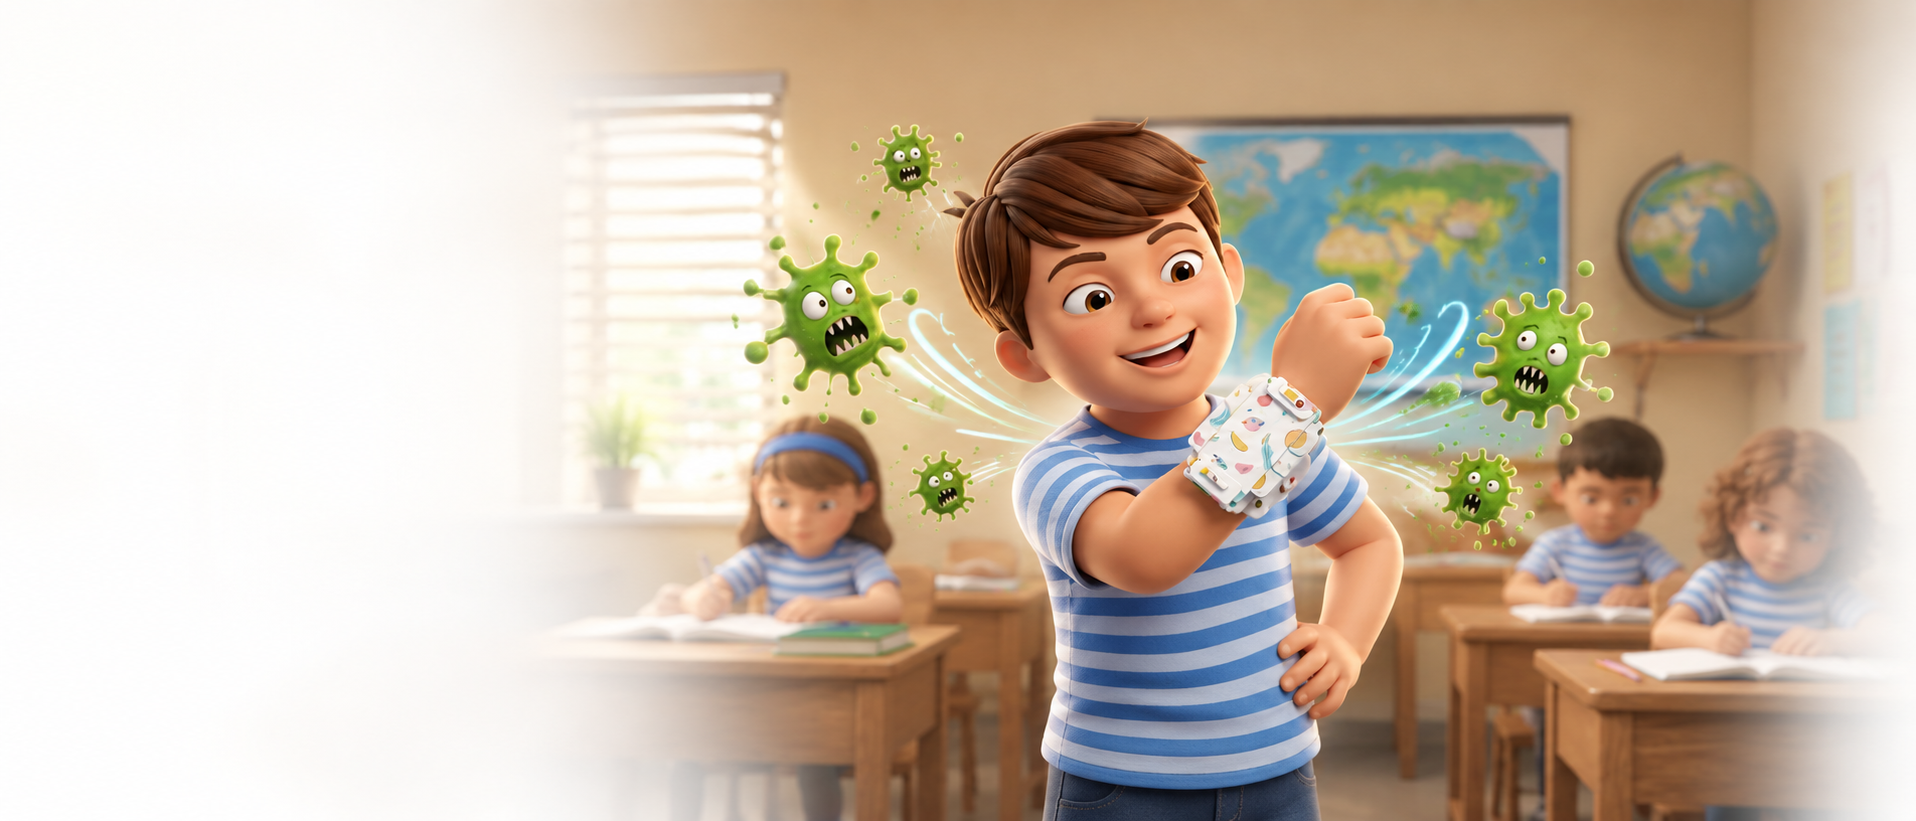
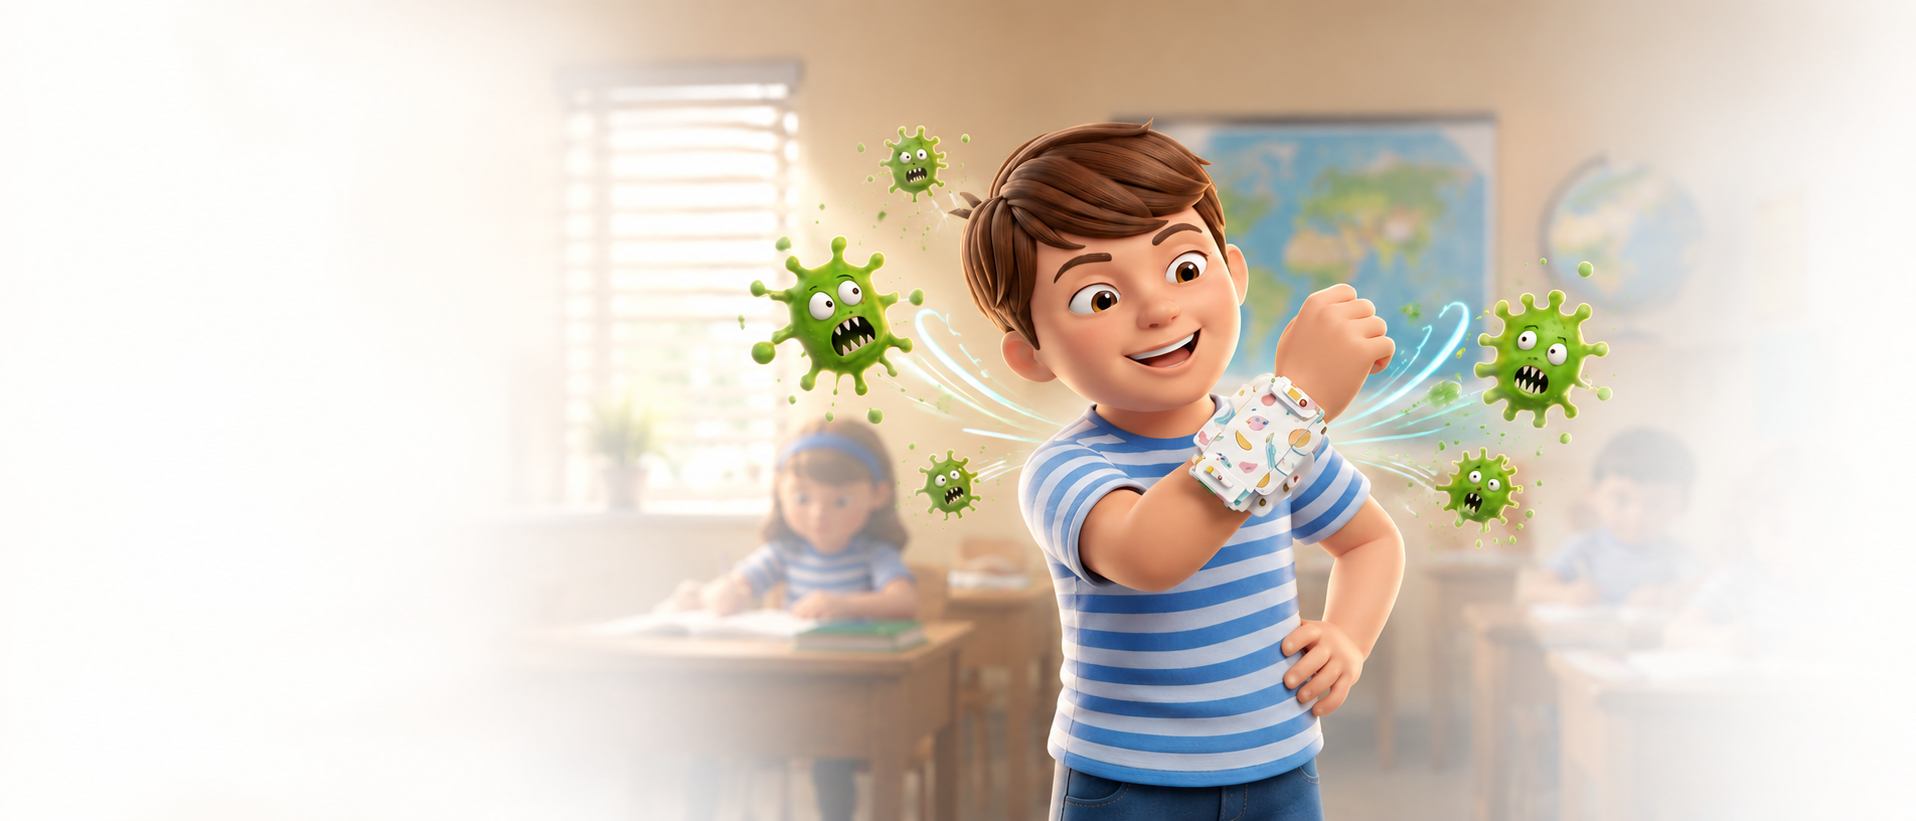
Use revised hero artwork with its natural side fade

diff --git a/components/sections/HeroSplit.module.css b/components/sections/HeroSplit.module.css
@@ -12,12 +12,9 @@
   width: min(100%, 1440px);
   aspect-ratio: 1916 / 821;
   z-index: -3;
-  --rounded-fade: radial-gradient(ellipse 50% 105% at 35% 46%, #000 0%, #000 60%, rgba(0,0,0,.85) 73%, rgba(0,0,0,.3) 89%, transparent 100%);
   --bottom-fade: linear-gradient(to bottom, #000 0%, #000 82%, transparent 100%);
-  -webkit-mask-image: var(--rounded-fade), var(--bottom-fade);
-  -webkit-mask-composite: source-in;
-  mask-image: var(--rounded-fade), var(--bottom-fade);
-  mask-composite: intersect;
+  -webkit-mask-image: var(--bottom-fade);
+  mask-image: var(--bottom-fade);
 }
 .sceneImage { object-fit: fill; }
 .inner { max-width: 1200px; margin: auto; padding: 48px 32px 100px; position: relative; z-index: 2; }

diff --git a/components/sections/HeroSplit.tsx b/components/sections/HeroSplit.tsx
@@ -2,6 +2,7 @@
 
 import React, { useState } from 'react';
 import Image from 'next/image';
+import heroScene from '@/public/assets/sections/Hero_option_01-wider.png';
 import { Check } from 'lucide-react';
 import { Button } from '@/components/ui/Button';
 import { useCart } from '@/lib/cart';
@@ -41,7 +42,7 @@ export function HeroSplit() {
     >
       <div className={styles.scene}>
         <Image
-          src="/assets/sections/Hero_option_01-wider.png"
+          src={heroScene}
           alt="Child wearing Wipeband on his wrist in a classroom"
           fill
           priority

diff --git a/docs/project/CURRENT_STATE.md b/docs/project/CURRENT_STATE.md
@@ -193,3 +193,13 @@ and has no commits absent from local main. Push includes approved hero, teal
 corrections and shared tooling/history. Hostinger deploys automatically; actual
 deployment outcome remains unverified. Unused hero option 1/2 uploads stay
 local and untracked.
+
+Hero image replacement: owner supplied a revised Hero_option_01-wider.png with
+natural side fades. Removed the CSS right-hand radial fade; bottom mask stays
+for wave coverage. Hero imports the image statically so Next generates a
+content-hashed URL and does not reuse the old optimized image path.
+
+Replacement validation: lint/TypeScript and production build pass (27/27).
+Rendered replacement inspected at 1920px; image URL is hashed, CSS radial mask
+is absent, and overflow checks pass at 375/1440/1920px. Local production server
+restarted on port 3000; update not pushed.

diff --git a/docs/project/HANDOFF.md b/docs/project/HANDOFF.md
@@ -100,3 +100,8 @@ Owner authorized push to origin/main, including the approved hero implementation
 2ca77e7 and prior local work. Remote fetched with no divergence. Hostinger
 auto-deployment outcome still needs verification; do not assume deployment
 success merely from a successful GitHub push.
+
+Latest update uses replaced Hero_option_01-wider.png and removes the CSS
+right-hand fade by request. Bottom mask/wave retained. Image uses a static
+import with a hashed URL to avoid stale image caches. Local update; no new
+push requested. Other alternate uploads remain untracked.
